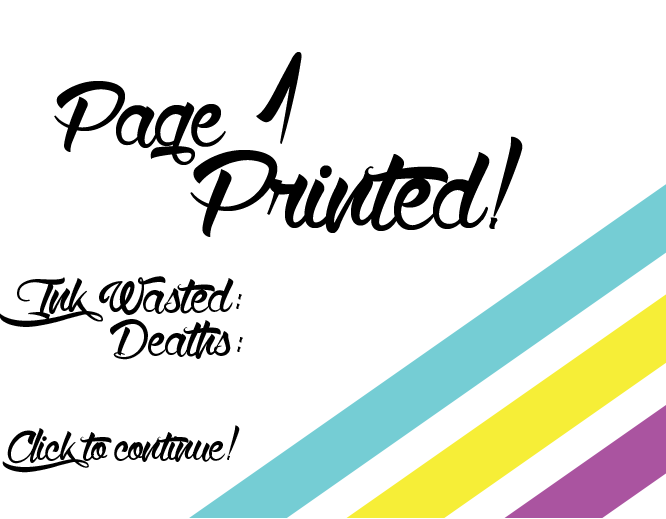
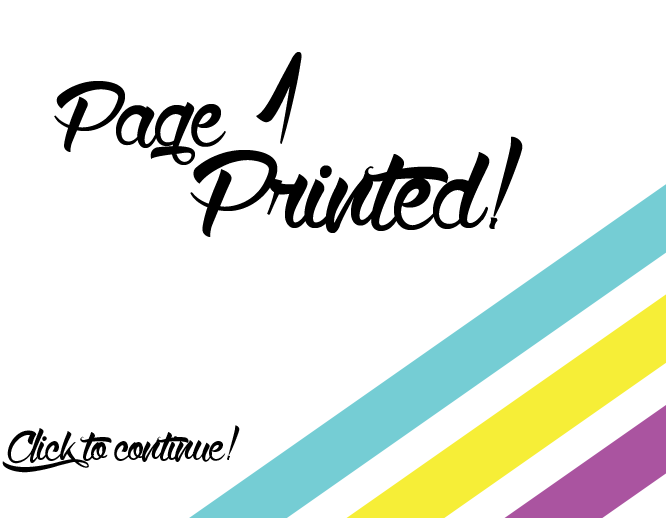
Changed leevl end images, added level 0, removed unneded files

Changed region(s): [[0.0, 0.5241, 0.3604, 0.7091]]

diff --git a/WebContent/InklyMain.js b/WebContent/InklyMain.js
@@ -385,7 +385,17 @@ levelSummary.init = function() {
 	this.gui.y = canvas.height / 2;
 	
 	continueFunc = function(){
+		if(currentLevelNumber < 6)
 			screenManager.push(gameScreen);
+		else{
+			inGame = false;
+			theme.currentTime = 0;
+			theme.pause();
+			menuTheme.currentTime = 0;
+			menuTheme.play();
+			levelSummary.image = Textures.load("BackgroundW.png");
+			screenManager.push(mainMenu);
+		}
 	}
 	
 	var continueGame = new Button(continueFunc);
@@ -395,18 +405,18 @@ levelSummary.init = function() {
 	continueGame.width = canvas.width;
 	this.gui.addChild(continueGame);
 	
-	var resumeGame = new TextButton("");
-	resumeGame.y = 0;
-	resumeGame.center = 0;
-	resumeGame.label.dropShadow = false;
-	resumeGame.label.fontSize = 30;
-	resumeGame.setLabelColors("#aaaaaa", "#ffffff", "#ff0000");
-	this.gui.addChild(resumeGame);
 	
-	resumeGame.func = function (){
-			screenManager.push(gameScreen);
-	}
+	//Does not work!
+	this.inkWasted = new TextBox("Ink Wasted");
+	this.inkWasted.x = 50;
+	this.inkWasted.y = 350;
+	this.inkWasted.fontSize = 30;
+	this.inkWasted.bgColor = ("#000000");
+	this.inkWasted.bgFocusColor = ("#ffffff");
+	this.inkWasted.visible = true;
+	this.gui.addChild(this.inkWasted);
 	
+	this.deathReport = new TextBox("Death Report");
 	
 	//TODO add sounds for end level
 }
@@ -830,6 +840,8 @@ function updatePlatforms() {
 			if (vPlatforms[i].color == "yellow")
 				vPlatforms[i].sprite.image = Textures.load("PlatformYV.png");
 		}
+		if (vPlatforms[i].color == "black")
+			vPlatforms[i].sprite.image = Textures.load("PlatformBV.png");
 	}
 }
 
@@ -1039,14 +1051,16 @@ function finish() {
 		levelSummary.image = Textures.load("LevelEnd3.png");
 	if(currentLevelNumber == 4)
 		levelSummary.image = Textures.load("LevelEnd4.png");
-	if(currentLevelNumber == 5){
+	if(currentLevelNumber == 5)
+		levelSummary.image = Textures.load("LevelEnd5.png");
+	if(currentLevelNumber == 6)
 		levelSummary.image = Textures.load("GameEnd.png");
-		//TODO handle code for game over
-	}
+
 
 	screenManager.push(levelSummary);
 	screenManager.remove(gameScreen);
-	
+	//levelSummary.gui.addChild(levelSummary.inkWasted);
+	if (currentLevelNumber < 6){
 	clearLevel();
 	currentLevel = levels[currentLevelNumber];
 	currentLevelNumber++;
@@ -1055,6 +1069,7 @@ function finish() {
 	totalDeaths += deaths;
 	death();
 	deaths = 0;
+	}
 }
 
 /*
@@ -1119,6 +1134,83 @@ function platformPrototype(x, y, color) {
  * where levels are actually defined (start with first one for pushing reasons)
  * :::::::::::::::::::::::::::::::::::::::::::::::::::::::::::::::::::::::::::
  */
+
+
+level0 = new level(0, 6950);
+
+level0.platforms = [
+		new platformPrototype(550, 450, "black"),
+		new platformPrototype(650, 450, "black"),
+		new platformPrototype(750, 450, "black"),
+		new platformPrototype(950, 450, "black"),
+		new platformPrototype(1150, 450, "black"),
+		new platformPrototype(1200, 450, "black"),
+		new platformPrototype(1350, 250, "black"),
+		new platformPrototype(1500, 350, "black"),
+		new platformPrototype(1600, 450, "cyan"),
+		new platformPrototype(1750, 450, "cyan"),
+		new platformPrototype(1850, 450, "cyan"),
+		new platformPrototype(1950, 450, "cyan"),
+		new platformPrototype(2200, 450, "magenta"),
+		new platformPrototype(2200, 400, "magenta"),
+		new platformPrototype(2200, 450, "magenta"),
+		new platformPrototype(2300, 450, "magenta"),
+		new platformPrototype(2400, 450, "yellow"),
+		new platformPrototype(2550, 450, "yellow"),
+		new platformPrototype(2700, 200, "yellow"),
+		new platformPrototype(2850, 100, "yellow"),
+		new platformPrototype(2950, 150, "yellow"),
+		new platformPrototype(3050, 150, "yellow"),
+		new platformPrototype(3150, 150, "yellow"),
+		new platformPrototype(3250, 150, "yellow"),
+		new platformPrototype(3350, 150, "yellow"),
+		new platformPrototype(3450, 150, "yellow"),
+		new platformPrototype(3550, 150, "yellow"),
+		new platformPrototype(3650, 150, "yellow"),
+		new platformPrototype(3350, 250, "magenta"),
+		new platformPrototype(3450, 250, "magenta"),
+		new platformPrototype(3550, 250, "magenta"),
+		new platformPrototype(3650, 250, "magenta"),
+		new platformPrototype(3750, 250, "magenta"),
+		new platformPrototype(3850, 250, "magenta"),
+		new platformPrototype(3950, 250, "magenta"),
+		new platformPrototype(4050, 250, "magenta"),
+		new platformPrototype(3700, 400, "cyan"),
+		new platformPrototype(3800, 400, "cyan"),
+		new platformPrototype(3900, 400, "cyan"),
+		new platformPrototype(4000, 400, "cyan"),
+		new platformPrototype(4100, 400, "cyan"),
+		new platformPrototype(4200, 400, "cyan"),
+		new platformPrototype(4300, 400, "cyan"),
+		new platformPrototype(4400, 400, "cyan"),
+		new platformPrototype(4500, 400, "cyan"),
+		new platformPrototype(4600, 400, "cyan"),
+		new platformPrototype(4700, 400, "cyan"),
+		new platformPrototype(4900, 400, "magenta"),
+		new platformPrototype(5050, 250, "magenta"),
+		new platformPrototype(5200, 300, "cyan"),
+		new platformPrototype(5300, 200, "yellow"),
+		new platformPrototype(5450, 100, "cyan"),
+		new platformPrototype(5600, 450, "yellow"),
+		new platformPrototype(5700, 220, "magenta"),
+		new platformPrototype(5850, 300, "cyan"),
+		new platformPrototype(6000, 200, "yellow"),
+		new platformPrototype(6100, 100, "magenta"),
+		new platformPrototype(6250, 450, "black"),
+		new platformPrototype(6350, 450, "black"),
+		new platformPrototype(6400, 450, "black"),
+		new platformPrototype(6500, 450, "black"),
+		new platformPrototype(6600, 450, "black"),
+		new platformPrototype(6700, 450, "black"),
+		new platformPrototype(6800, 450, "black"),
+		new platformPrototype(6900, 450, "black") ]
+
+level0.vPlatforms = [
+		new platformPrototype(3750, -380, "black"),
+		new platformPrototype(4150, -280, "black"),
+		]
+
+level0.floors = []
 
 level1 = new level(1, 6950);
 
